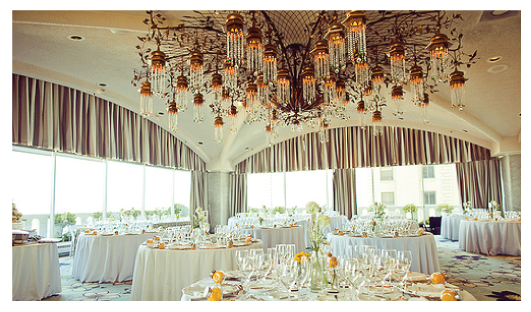
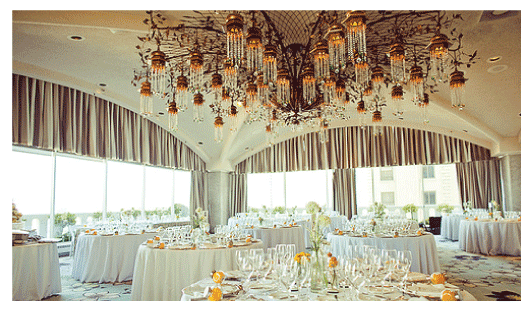
decreased photo size by reducing quality (unoticable) to increase page load times.

diff --git a/css/master.css b/css/master.css
@@ -46,7 +46,7 @@ body {
 
 #navbar {
 	position:absolute;
-	left:85px;
+	left:86px;
 }
 
 #navbar ul {
@@ -59,7 +59,7 @@ body {
 
 #navbar ul li {
 	float:left;
-	margin-right: 44px;
+	margin-right: 42px;
 }
 
 #navbar ul li a {
@@ -68,10 +68,11 @@ body {
 	padding-top:0px;
 	display:block;
 	text-decoration:none;
-    font-family: 'MrsEavesPetiteCapsRegular';
-    font-size:8pt;
+	font-family: 'MrsEavesPetiteCapsRegular';
+	font-size:8pt;
 	color:#42283F;
 	cursor:pointer;
+	text-transform:uppercase;
 }
 
 /* --------------------------welcome page---------------------------------- */
